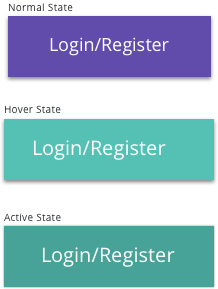
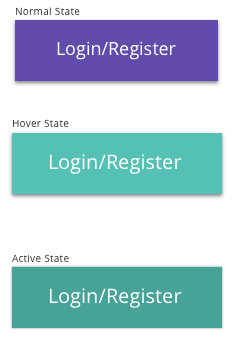
Update png and sketch images. Create readme for button challenge

diff --git a/button-challenge/README.md b/button-challenge/README.md
@@ -1,0 +1,12 @@
+# Button Code Challenge
+
+This challenge has one button with three states, normal, hovered, and active. Use the HTML provided below to begin the challenge. 
+
+When styling this button think about the following:
+- Borders
+- Shadows
+- Subtle transitions/animations for states
+
+```
+<button>Login/Register</button>
+```
